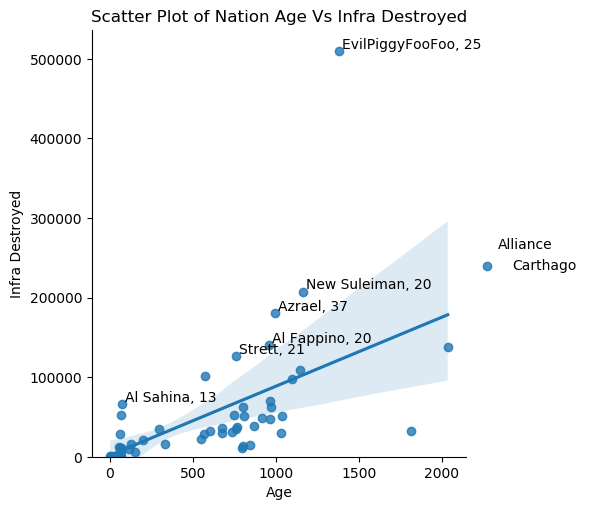
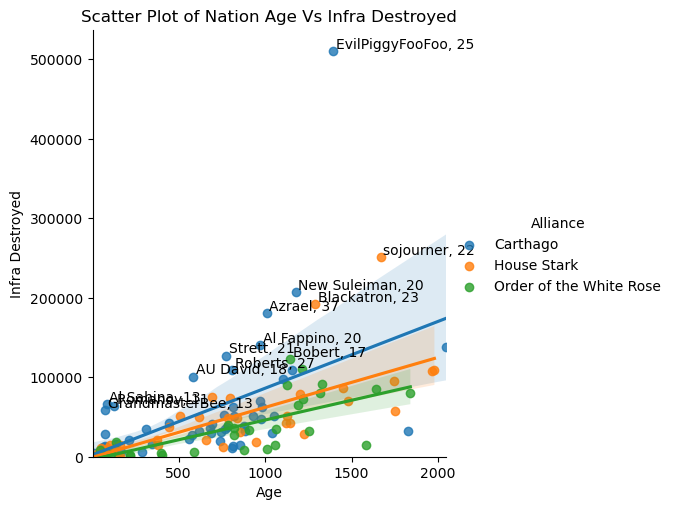
'reason'

diff --git a/War_Pig.py b/War_Pig.py
@@ -139,12 +139,12 @@ async def bulk_create(ctx):
                     ping_list = await coord_perms(attackers, channel, channel_name, ctx)
                     for index, member in enumerate(ping_list): 
                         link = f'https://politicsandwar.com/nation/id={nation_dict.get(member, "N/A")}'
-                        war_embed.add_field(name= f"__Attacker {index + 1}:__", value=f"[{client.get_user(member).name}]({link})", inline=True)
+                        war_embed.add_field(name= f"__Attacker {index + 1}:__", value=f"[{client.get_user(member).display_namedisplay_name}]({link})", inline=True)
 
                     def_ping_list = await coord_perms(defenders, channel, channel_name, ctx)
                     for index, member in enumerate(def_ping_list): 
                         link = f'https://politicsandwar.com/nation/id={nation_dict.get(member, "N/A")}'
-                        war_embed.add_field(name= f"__Defender {index + 1}:__", value=f"[{client.get_user(member).name}]({link})", inline=True)
+                        war_embed.add_field(name= f"__Defender {index + 1}:__", value=f"[{client.get_user(member).display_name}]({link})", inline=True)
 
                     war_embed.add_field(name="__Reminder__", value="1.) Make sure you have enough resources including food and uranium, ping gov if you need more\
                             \n 2.) Look over their military before going in and plan out the best move\
@@ -205,7 +205,7 @@ async def run_test_sheet(ctx):
 
 
 @client.command()
-async def create_chan(ctx, nation_link, *members: discord.Member):
+async def create_chan(ctx, nation_link, reason = None, *members: discord.Member):
     ''' 
     Creates a channel using nation link and the list of members to add to it
 
@@ -223,13 +223,24 @@ async def create_chan(ctx, nation_link, *members: discord.Member):
 
             channel = await ctx.guild.create_text_channel(channel_name, category = category, topic = f'War on {nation_link}')
             update_dict()
+
+            if re.match(r'<@!\d{18}\>', reason):
+                id = int(reason.split('!')[1].split('>')[0])
+                print(id)
+                print(client.get_user(int(reason.split('!')[1].split('>')[0])))
+                members += (client.get_user(id),)
+                reason = ''
             #For loop to set permissions for members
             ping = ''
             for member in members:
                 await channel.set_permissions(member, read_messages=True, send_messages=True)
                 ping = ping + f'<@{member.id}> '
+            
+            if reason != '':
+                reason = reason.replace('-', ' ')
+                reason = f', war reason: {reason}'
             war_embed = discord.Embed(title= f"⚔ __Target: {channel_name.split('-')[0]}__", 
-                description= f"Please declare war on {nation_link}", color=0xcb2400,
+                description= f"Please declare war on {nation_link}{reason}", color=0xcb2400,
                 url = f'https://politicsandwar.com/nation/war/declare/id={nation_link.split("=")[1]}')
 
 
@@ -239,7 +250,7 @@ async def create_chan(ctx, nation_link, *members: discord.Member):
 
             for index, member in enumerate(members): 
                 link = f'https://politicsandwar.com/nation/id={nation_dict.get(member.id, "N/A")}'
-                war_embed.add_field(name= f"__Attacker {index + 1}:__", value=f"[{member.name}]({link})", inline=True)
+                war_embed.add_field(name= f"__Attacker {index + 1}:__", value=f"[{member.display_name}]({link})", inline=True)
            
             war_embed.add_field(name="__Reminder__", value="1.) Make sure you have enough resources including food and uranium, ping gov if you need more\
                     \n 2.) Look over their military before going in and plan out the best move\
@@ -444,7 +455,7 @@ async def graph(ctx, type, *alliances):
             alliance_city_data = []
 
             #Grabs data for every nation in the alliance
-            for nations in range(0, math.ceil(num_nations/3)):
+            for nations in range(0, math.ceil(num_nations/50)):
                 res = requests.get(f'https://politicsandwar.com/index.php?id=15&keyword={ally}&cat=alliance&ob=score&od=DESC&maximum={50*(nations+1)}&minimum={50*nations}&search=Go&memberview=true')
                 soup_data = BeautifulSoup(res.text, 'html.parser')
                 data = soup_data.find_all("td", attrs={"class": "right"}, text = re.compile(r'^[1-9]\d*$'))
